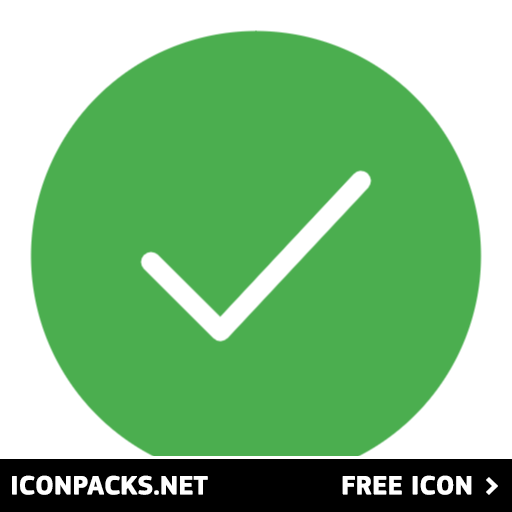
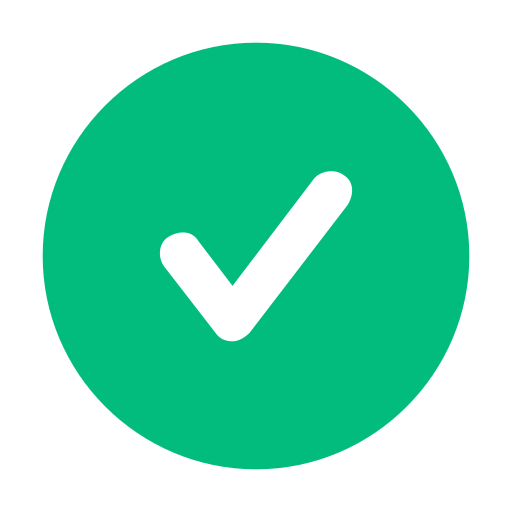
added email newsletter sign up

diff --git a/index.html b/index.html
@@ -693,31 +693,48 @@
             </div>
 
 
-            <!-- newsletter -->
-            <form
-                class="newsletter"
-                action="#"
-                method="get">
+<!-- newsletter signup -->
+<form class="newsletter" id="newsletter-form">
 
-                <label
-                    class="visually-hidden"
-                    for="newsletter-email">
-                    Email for event updates
-                </label>
+    <label
+        class="visually-hidden"
+        for="newsletter-email">
+        Email for event updates
+    </label>
 
-                <input
-                    id="newsletter-email"
-                    type="email"
-                    name="email"
-                    placeholder="Enter your email here for updates on GamingCon.."
-                    required
-                >
+    <input
+        id="newsletter-email"
+        type="email"
+        name="email"
+        placeholder="Enter your email here for updates on GamingCon.."
+        required
+    >
 
-                <button type="submit">
-                    Enter
-                </button>
+    <button
+        type="submit"
+        id="newsletter-submit">
+        Enter
+    </button>
 
-            </form>
+    <!-- signup confirmation -->
+    <div
+        id="newsletter-success"
+        class="newsletter-success"
+        role="status"
+        aria-live="polite"
+        hidden>
+
+        <img
+            src="images/checkmark.png"
+            alt=""
+            class="newsletter-checkmark"
+        >
+
+        <span>Thanks for signing up!</span>
+
+    </div>
+
+</form>
 
 
             <!-- footer links -->

diff --git a/style.css b/style.css
@@ -844,6 +844,81 @@ a.card-link:hover {
     .footer-links { font-size: 22px; white-space: normal; }
 }
 
+/* newsletter signup confirmation */
+
+.newsletter-success {
+    position: absolute;
+    inset: 0;
+
+    display: flex;
+    align-items: center;
+    justify-content: center;
+    gap: 12px;
+
+    padding: 8px 14px;
+
+    color: var(--bg-header);
+    font-family: var(--font-body);
+    font-size: 22px;
+    font-weight: 700;
+
+    animation: newsletter-appear 0.4s ease-out;
+
+    /* newsletter checmark icon */
+
+    .newsletter-checkmark {
+        width: 32px;
+        height: 32px;
+        object-fit: contain;
+        flex-shrink: 0;
+    }
+
+    /* success state */
+
+    .newsletter.is-subscribed {
+        background-color: var(--text-primary)
+        box-shadow: 0 0 12px rgba(225, 183, 3, 0.35);
+    }
+
+    /* confirmation entrance animation */
+
+    @keyframes newsletter-appear {
+        from {
+            opacity: 0;
+            transform: scale(0.95);
+        }
+
+        to {
+            opacity: 1;
+            transformm: scale(1);
+        }
+    }
+
+    /* smaller screens */
+
+    @media (max-width: 700px) {
+        .newsletter-success {
+            gap: 8px;
+            font-size: 16px;
+        }
+
+        .newsletter-checkmark {
+            width: 25px;
+            height: 25px;
+        }
+    }
+
+/* accessibility */
+
+@media (prefers-reduced-motion: reduced) {
+    .newsletter-success {
+        animation: none;
+    }
+}
+
+}
+
+
 /* reduced motion accessibility */
 @media (prefers-reduced-motion: reduce) {
     html { scroll-behavior: auto; }

diff --git a/script.js b/script.js
@@ -547,3 +547,43 @@ newBookingButton.addEventListener("click", function() {
     showHome();
 
 });
+
+
+// newsletter signup
+
+// select newsletter elements
+
+const newsletterForm = document.querySelector("#newsletter-form");
+const newsletterEmail = document.querySelector("#newsletter-email");
+const newsletterSubmit = document.querySelector("#newsletter-submit");
+const newsletterSuccess = document.querySelector("#newsletter-success");
+
+// handle newsletter signup
+
+newsletterForm.addEventListener("submit", function(event) {
+
+    // prevent page reload
+
+    event.preventDefault();
+
+    // validate email address
+
+    if (!newsletterEmail.checkValidity()) {
+
+        newsletterEmail.reportValidity();
+        return;
+    }
+
+    // hide email field and button
+
+    newsletterEmail.hidden= true;
+    newsletterSubmit.hidden = true;
+
+    // display confirmation with checkmark
+
+    newsletterSuccess.hidden = false;
+
+    // add success styling
+
+    newsletterForm.classList.add("is-subscribed");
+});
